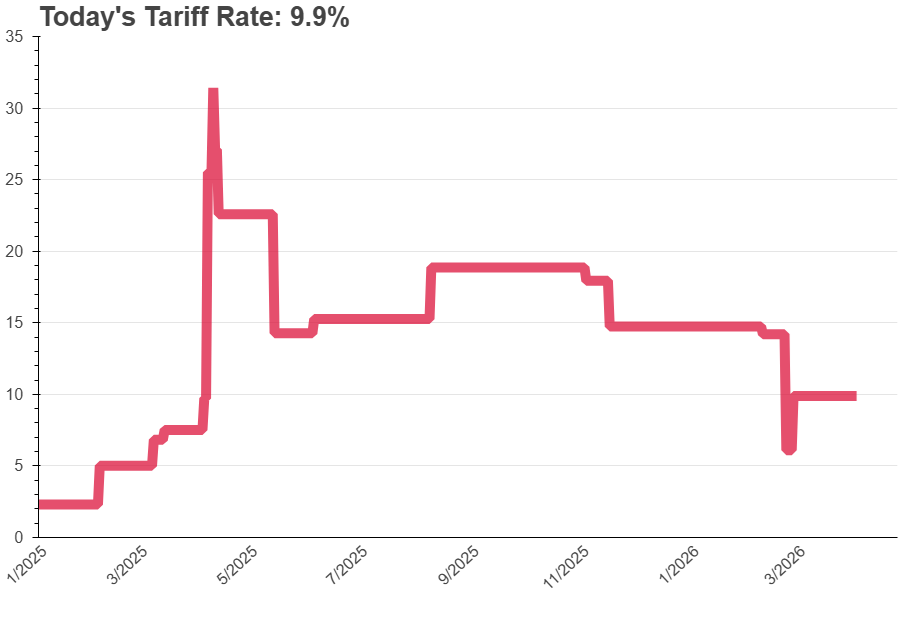
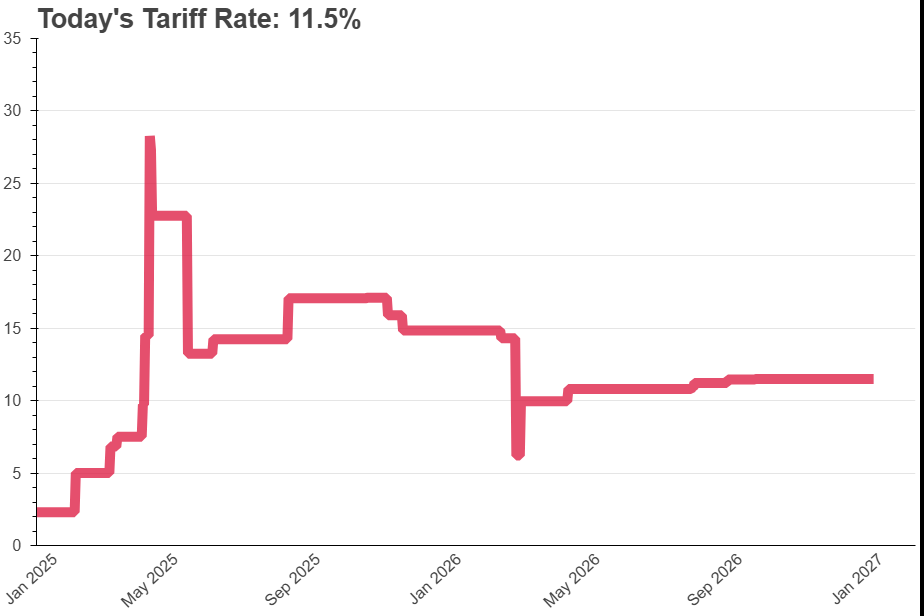
Flag the Annex II revision in the README and regenerate tariff-fig.png
- README: an "Important" notice at the top explaining the Oct 27, 2026
  revision of Apr 2025 - Feb 2026 rates (Annex II matching, related
  IEEPA-layer and April-date fixes, effect on the national average,
  Canada/Mexico still pending).
- tariff-fig.png was a hand-made screenshot last updated Feb 24 and
  still showed the pre-correction history. The plot notebook now
  renders the daily chart with headless Chrome/Edge and saves it as
  tariff-fig.png on every run. Title now reads 11.5%.

diff --git a/docs/reciprocal-new-steel.html b/docs/reciprocal-new-steel.html
@@ -19,10 +19,10 @@ Bokeh.set_log_level("info");
 </script>
   </head>
   <body>
-    <div id="f114610c-2b01-4ad3-9a0f-da5f574e1032" data-root-id="p1160" style="display: contents;"></div>
+    <div id="fbc179cd-e113-4f34-8d51-4a4623777404" data-root-id="p1160" style="display: contents;"></div>
   
-    <script type="application/json" id="f8f26d08-a9dd-4ace-8bd6-8eeebf952401">
[1 lines of base64/hex data omitted]
+    <script type="application/json" id="e02aca09-62d9-4e5e-a70e-667f5bb8397b">
[1 lines of base64/hex data omitted]
     </script>
     <script type="text/javascript">
       (function() {
@@ -30,8 +30,8 @@ Bokeh.set_log_level("info");
           Bokeh.safely(function() {
             (function(root) {
               function embed_document(root) {
-              const docs_json = document.getElementById('f8f26d08-a9dd-4ace-8bd6-8eeebf952401').textContent;
-              const render_items = [{"docid":"5fddfafe-f8ed-4b3e-af66-7328cb52daf7","roots":{"p1160":"f114610c-2b01-4ad3-9a0f-da5f574e1032"},"root_ids":["p1160"]}];
+              const docs_json = document.getElementById('e02aca09-62d9-4e5e-a70e-667f5bb8397b').textContent;
+              const render_items = [{"docid":"8cfb78a5-f355-4f6b-b1c9-06b25ad2fde5","roots":{"p1160":"fbc179cd-e113-4f34-8d51-4a4623777404"},"root_ids":["p1160"]}];
               root.Bokeh.embed.embed_items(docs_json, render_items);
               }
               if (root.Bokeh !== undefined) {

diff --git a/README.md b/README.md
@@ -6,6 +6,22 @@
 
 Updated: 2026-10-27
 
+> [!IMPORTANT]
+> **Major update, Oct 27, 2026: tariff rates for Apr 2025 – Feb 2026 have been revised.** The model applied the Annex II exemptions from the 2025 reciprocal tariffs (EO 14257) incorrectly. Correcting them lowers the national average for most of that period.
+>
+> - **What was wrong.** Annex II exempts every product in a listed 8-digit HTS subheading. The model matched its codes only at 10 digits, so most exempt imports, including much of crude oil and pharmaceuticals, were still charged the reciprocal tariff. The list was also missing 319 of the annex's 1,039 subheadings.
+> - **Fixed in the same update.** Annex II goods now keep the other IEEPA duties that still applied to them: China's fentanyl duty and Brazil's 40%. Apr 5–8, 2025 is now the 10% baseline, because the country-specific rates started on Apr 9. China's rate during the 90-day pause is now 145% (125% reciprocal plus 20% fentanyl), not 125%.
+> - **Effect on the national average.**
+>   - May 12 – Nov 13, 2025: down about 1–2 percentage points (Aug 7, 2025: 18.9% → 17.1%).
+>   - Apr 5–8, 2025: down 11–17 points.
+>   - Apr 9 – May 11, 2025: up by at most 1.2 points. The one-day country rates now fall on Apr 9, and China's pause rate is higher.
+>   - Nov 14, 2025 – Feb 19, 2026: up 0.07 points, from China's fentanyl duty and Brazil's 40% on Annex II goods.
+>   - Countries with large energy or pharmaceutical exports fall most; on Aug 7, 2025 Switzerland goes from 38.6% to 24.3%.
+>   - Rates from Feb 20, 2026 on, including today's, are unchanged.
+> - **Not yet changed.** Canada and Mexico keep the old Annex II treatment while their handling is reviewed.
+>
+> Details are in the [Oct 27 update notes](#update-notes-2026-10-27) and under [Needs attention](#needs-attention).
+
 This repository tracks U.S. tariff changes and produces data + charts used in the public tracker.
 
 ## Primary workflow
@@ -17,6 +33,9 @@ This repository tracks U.S. tariff changes and produces data + charts used in th
 2. [plot-tariff-by-country-by-time.ipynb](plot-tariff-by-country-by-time.ipynb)
    - Reads the latest output files and produces website charts/tabs.
    - Uses [federal-tax-duty.csv](federal-tax-duty.csv) and [NIPA-imports.csv](NIPA-imports.csv) for historical tariff calculations.
+   - Writes [tariff-fig.png](tariff-fig.png), the chart at the top of this README. It is a
+     snapshot of the daily tariff chart taken with headless Chrome (or Edge), so re-run this
+     notebook after every run of (1).
 
 3. [get-country-hs2-tariff.ipynb](get-country-hs2-tariff.ipynb)
    - Generates country-by-HS2 tariff outputs in [data-hs2](data-hs2).
